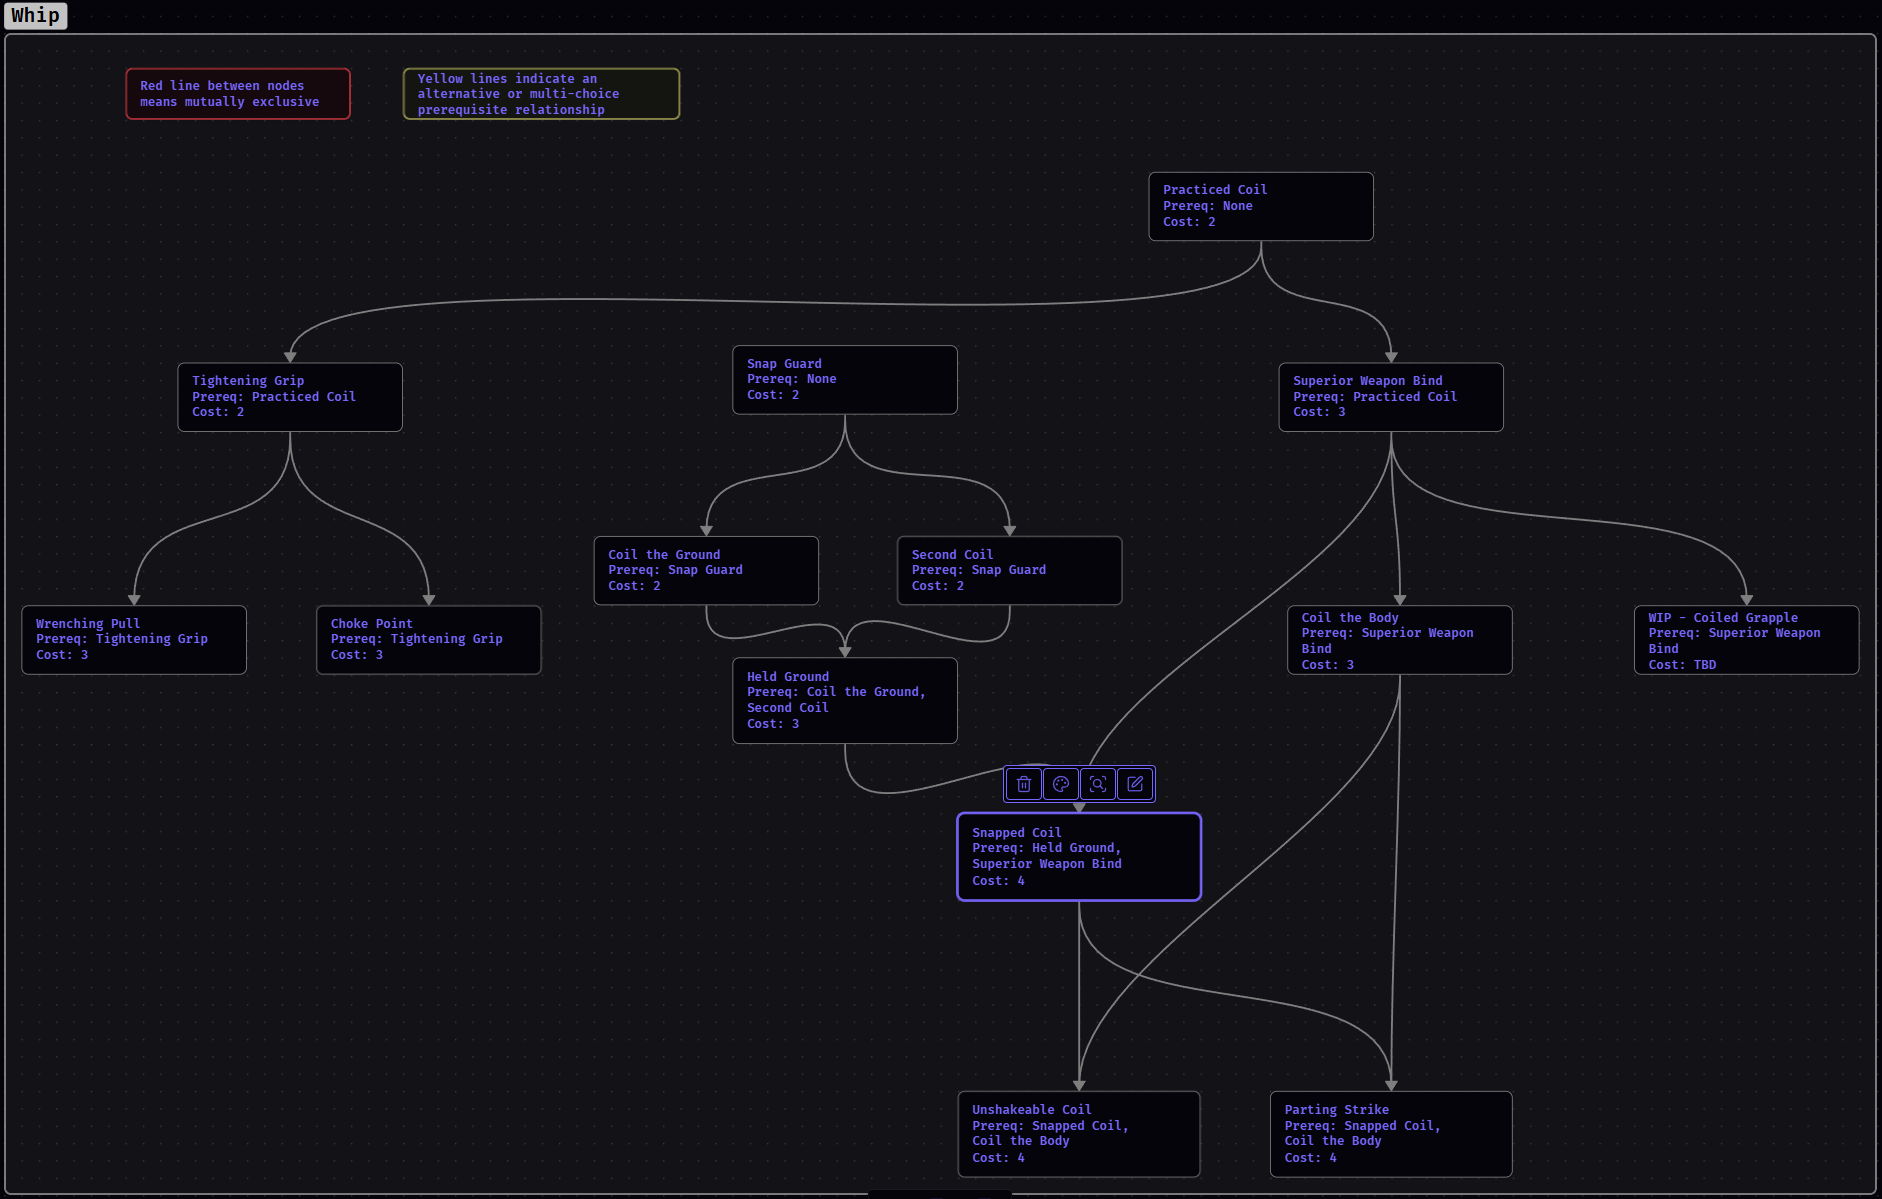
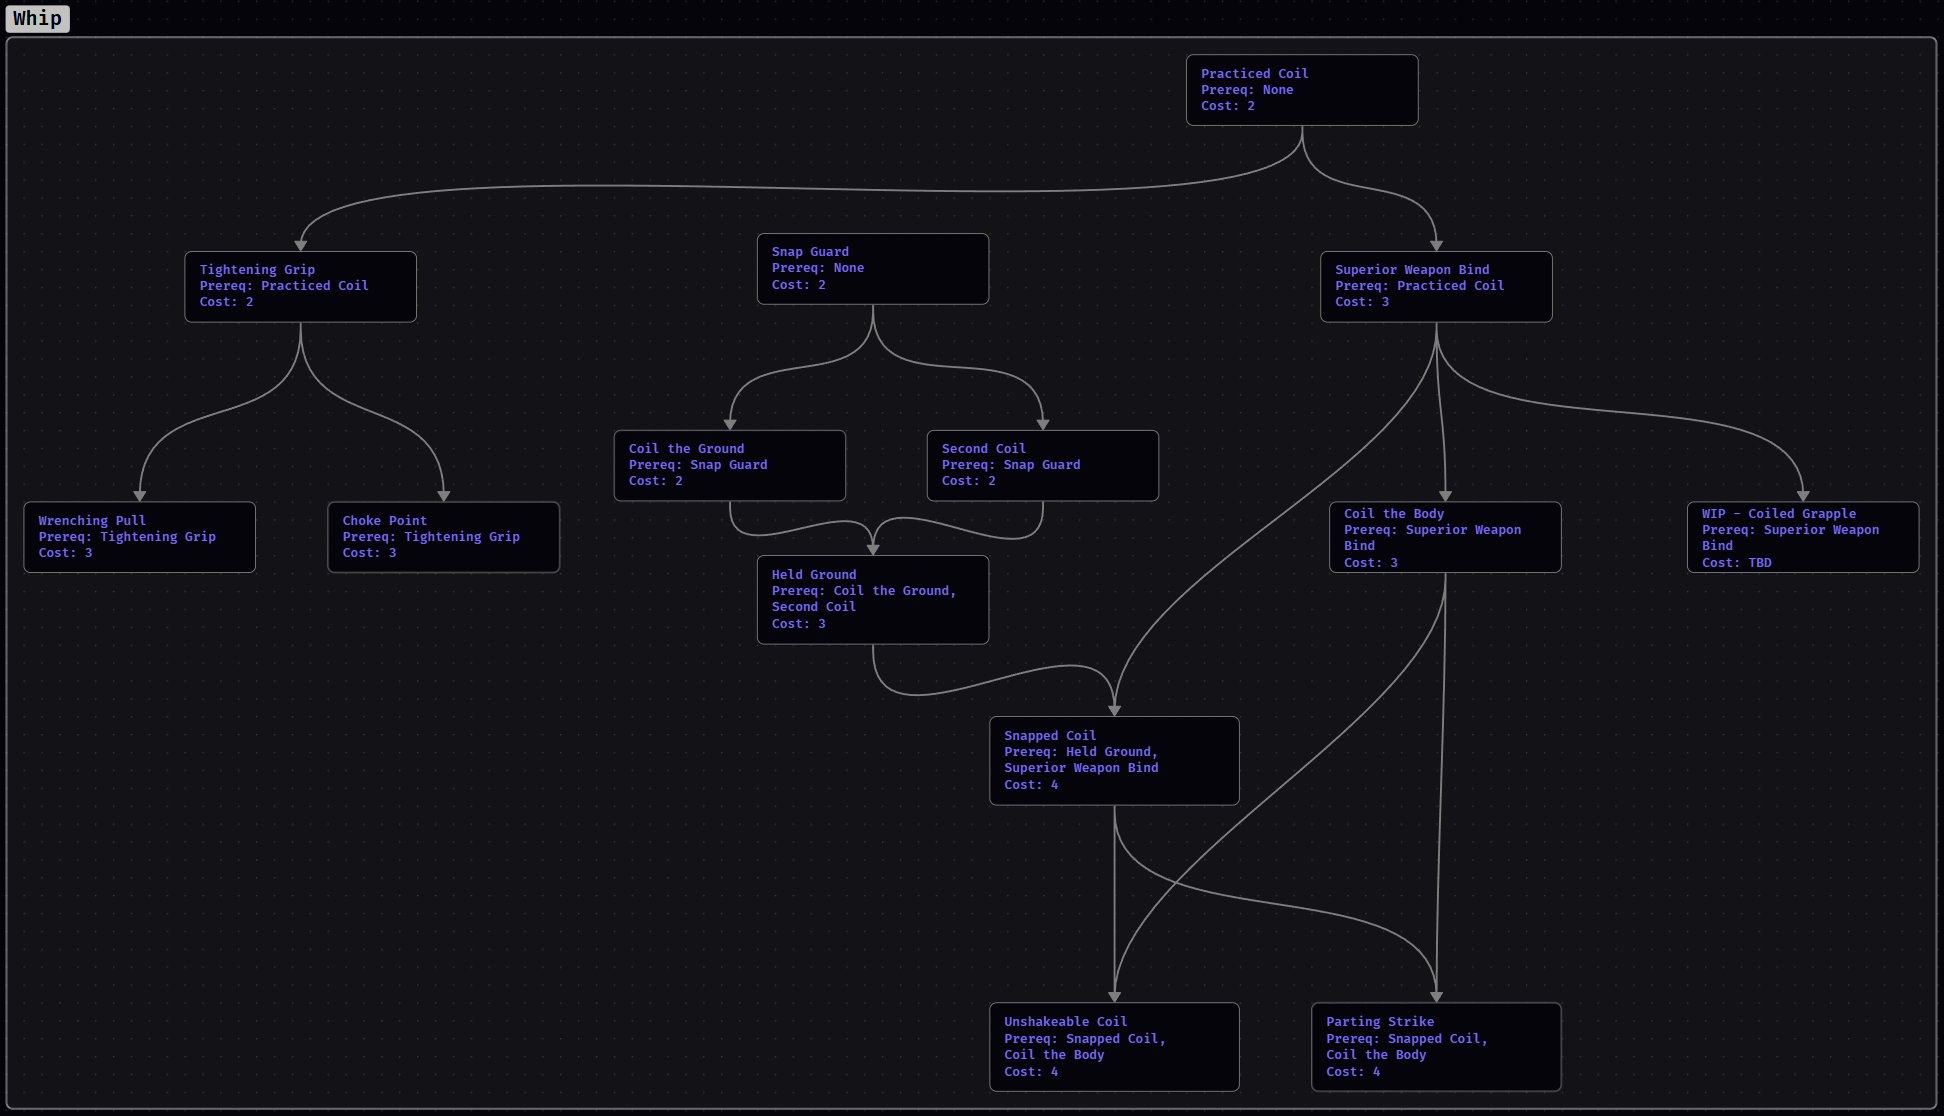
Axes

diff --git a/Worlds/Solasfall/Player/Disciplines/Weapon Mastery/Axes/Axes.md b/Worlds/Solasfall/Player/Disciplines/Weapon Mastery/Axes/Axes.md
@@ -1,0 +1,78 @@
+---
+tags:
+  - Mechanics/Combat
+  - Discipline
+---
+# Axes
+![[Axes.png]]
+## Wide Swing
+**Prerequisites:** None.
+**Cost:** 2 Trait Points.
+Your melee Attack with an axe may instead target a cone extending out to your weapon's Range in front of you, covering your Front Arc and one Side Arc (90° total). Make a single Attack roll, compared individually against the Evasion of every creature in the cone. Damage die is reduced by one step for each target hit beyond the first, to a minimum of 0 damage — it cannot be reduced further or turned negative.
+
+## Broadening Arc
+**Prerequisites:** Wide Swing.
+**Cost:** 2 Trait Points.
+Your cone widens to cover your full 180° — Front Arc and both Side Arcs.
+
+## Cushioned Cleave
+**Prerequisites:** Broadening Arc.
+**Cost:** 3 Trait Points.
+The damage penalty from Wide Swing softens. Your damage die is now reduced by one step for every **two** targets hit beyond the first, rounded down, instead of every one.
+
+## Full Cleave
+**Prerequisites:** Cushioned Cleave.
+**Cost:** 3 Trait Points.
+Remove the damage penalty from your cone Attack entirely. Every target caught in the cone takes your full weapon damage.
+
+## Opened Seams
+**Prerequisites:** None.
+**Cost:** 2 Trait Points.
+Axes you wield with the [[Weapon Traits#Sundering|Sundering]] trait may trigger their Sunder effect on **any** hit against an armoured target, not only when a portion of damage would otherwise reach [[Armour]] DR.
+
+## Deepened Sunder
+**Prerequisites:** Opened Seams.
+**Cost:** 2 Trait Points.
+Your Sundering effect reduces the target's Armour DR by **4** instead of 2.
+
+## Cracking Point
+**Prerequisites:** Deepened Sunder.
+**Cost:** 3 Trait Points.
+Sunder effects you cause may now stack up to **twice** on the same target before repair, instead of the normal single application.
+
+## Armour Breaker
+**Prerequisites:** Cracking Point.
+**Cost:** 3 Trait Points.
+Once per Round, a hit with an axe **ignores the target's Armour DR entirely** for that hit. Sunder still applies afterward as normal. Armour DR reduced through this tree can never be brought below 0 — it only ever removes protection, it does not create vulnerability.
+
+## Reckless Momentum
+**Prerequisites:** None.
+**Cost:** 2 Trait Points.
+[[Heavy Attack|Heavy Attacks]] made with an axe suffer only **–1** to Speed instead of –2.
+
+## Overcommit
+**Prerequisites:** Reckless Momentum.
+**Cost:** 2 Trait Points.
+Heavy Attacks made with an axe cost **1 Full Action** instead of 2. They still deal double damage as normal.
+
+## All In
+**Prerequisites:** Overcommit.
+**Cost:** 3 Trait Points.
+Once per Round, you may forgo your ability to Parry or Dodge until the start of your next turn to add your **Might a second time** to a single axe Attack's damage.
+
+## Unstoppable Swing
+**Prerequisites:** All In.
+**Cost:** 3 Trait Points.
+Heavy Attacks made with an axe no longer reduce Speed at all.
+
+---
+
+## Unbreakable Rhythm
+**Prerequisites:** Armour Breaker, Unstoppable Swing.
+**Cost:** 4 Trait Points.
+Your Sunder effects now apply even through a **Parried** or **Blocked** hit — the armour cracks regardless of whether the strike itself connected cleanly.
+
+## Reaper's Arc
+**Prerequisites:** Full Cleave, All In.
+**Cost:** 4 Trait Points.
+When you make a cone Attack, increase your damage die by **one step** against the single highest-Evasion target caught within it — the swing finds its most dangerous mark hardest, even as it sweeps everyone else aside.

diff --git a/Worlds/Solasfall/Player/Characters/Character Creation.md b/Worlds/Solasfall/Player/Characters/Character Creation.md
@@ -22,7 +22,6 @@ Before choosing a race, allocate Trait Points from your level 0 pool of **25** a
 - **Attributes** — six attributes rated 0–6, each added directly to relevant rolls. Costs scale as attributes increase. All attributes start at 0.
 - **Skill Training** — each point raises training level by 1, up to the maximum of your highest linked Attribute.
 - **Sturdiness Increases** — additional Sturdiness beyond the base value, subject to Vitality requirements (see the universal cost table).
-- **Essence Capacity** — you begin with capacity for 1 Essence; additional capacity may be purchased here.
 
 Racial Tree Nodes and Discipline Nodes **cannot** be purchased yet. You haven't chosen a race, and Disciplines are hard-locked at level 0 regardless of prerequisites.
 
@@ -96,7 +95,7 @@ You have **9 Faith Points** to allocate among the Deities of Solasfall. Points m
 
 Investing all 9 points in a single Deity and completing a personal quest unlocks Follower status and access to the Follower Disciplines tree at level 1.
 
-Worship of Forbidden Deities grants powerful Blessings but carries unique curses. Partial faith in a Forbidden Deity produces minor curses without the full consequences of exclusive devotion.
+Worshippers of Forbidden Deities grants powerful Blessings but carries unique curses. Partial faith in a Forbidden Deity produces minor curses without the full consequences of exclusive devotion.
 
 See Faith and individual Deity notes for full details.
 